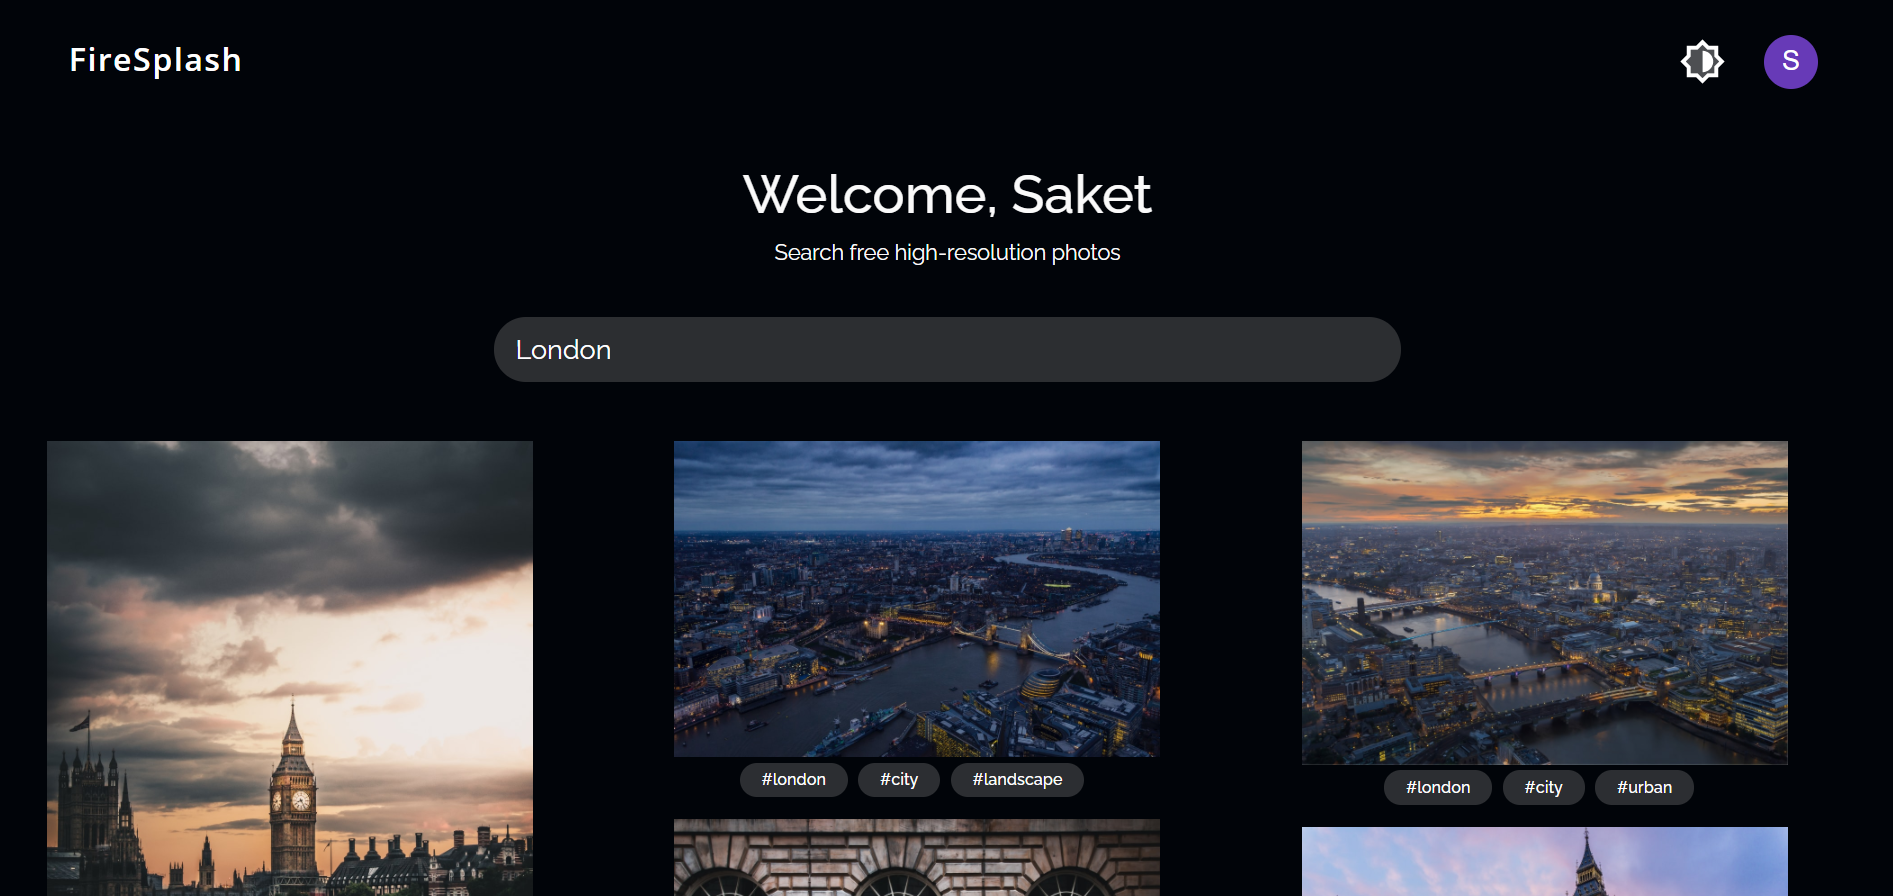
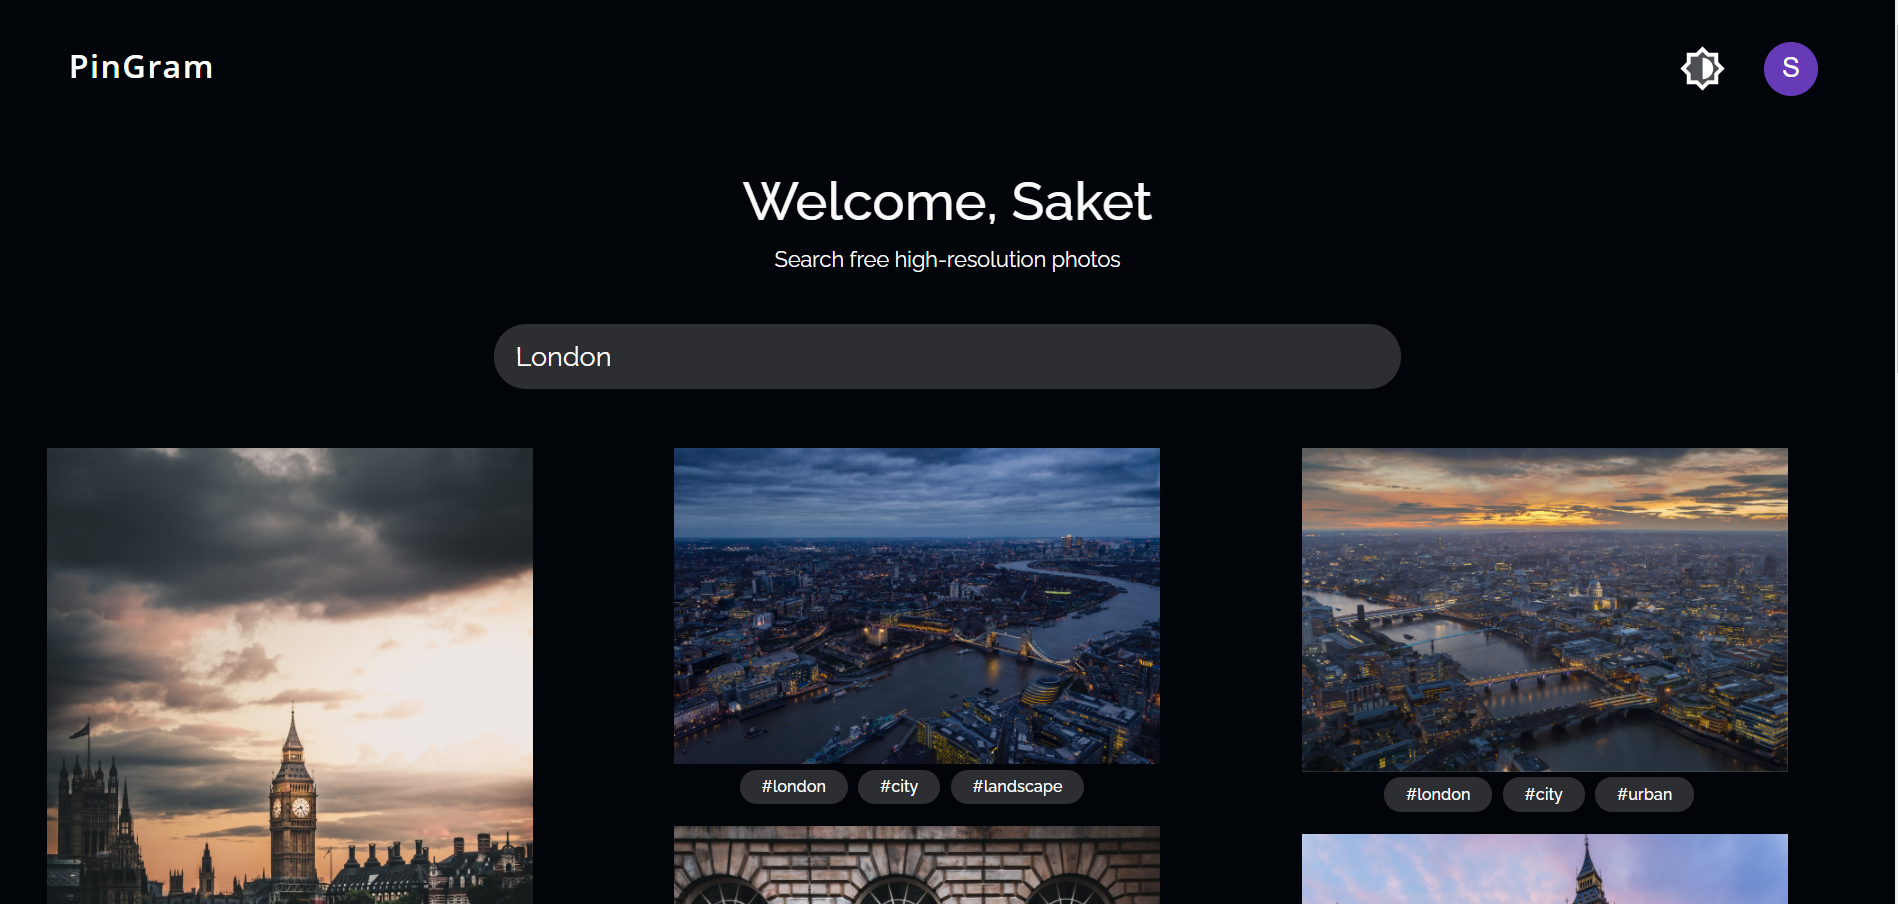
added more screenshots

diff --git a/README.md b/README.md
@@ -1,4 +1,4 @@
-# FireSplash
+# PinGram
 
 
 #### Instagram like gallery app made with React.js using Unsplash's API. I have used tailwind.css for styling and firebase for user-authentication.
@@ -6,6 +6,7 @@
 #### Screenshots
 
 ![App screenshot 1](screenshots/screenshot_1.png)
+
 ![App screenshot 2](screenshots/screenshot_2.png)
 
 
